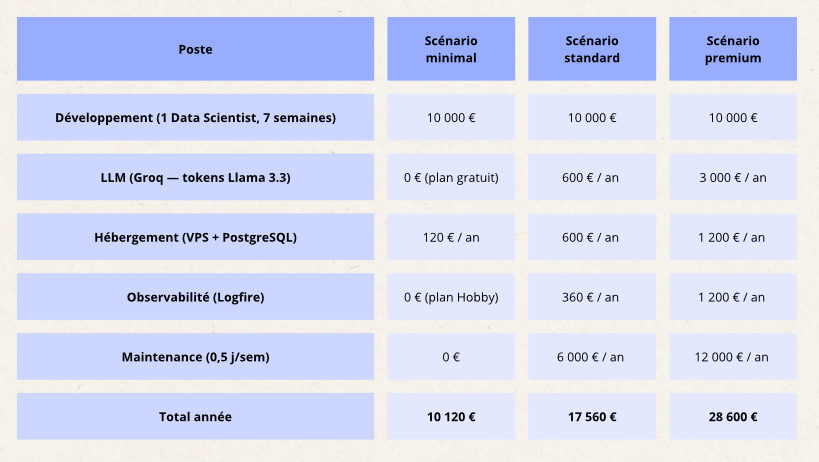
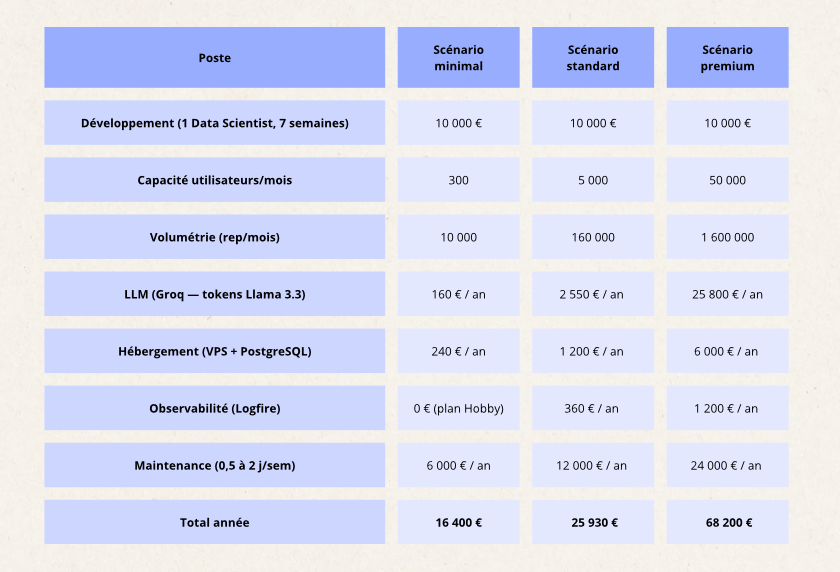
Màj des coûts financiers et de la dimension de la carte interactive

diff --git a/systeme_recommandation.md b/systeme_recommandation.md
@@ -187,13 +187,7 @@ Trois approches ont été envisagées pour répondre au besoin :
 
 ### **Roadmap de mise en œuvre du nouveau prototype - sur la partie ML**
 
-| Phase | Contenu | Livrable | Durée indicative |
-| --- | --- | --- | --- |
-| Phase 1 — Audit | Prise en main prototype, RAGAS v1, diagnostic | Rapport d'audit chiffré | 1 semaine |
-| Phase 2 — Refonte | Nouvelle architecture, migration Groq, base SQL, routeur | Nouveau système fonctionnel | 3 semaines |
-| Phase 3 — Fiabilisation | Validation Pydantic, conteneurisation Docker, API FastAPI | Système robuste et déployable | 1 semaine |
-| Phase 4 — Observabilité | Intégration Logfire, dashboards, suivi des coûts | Monitoring en place | 1 semaine |
-| Phase 5 — Évaluation finale | RAGAS v2, comparaison avant/après, documentation | Rapport de résultats | 1 semaine |
+![alt text](assets/cadrage_poc.png)
 
 **Total estimé** : 7 semaines.
 
@@ -223,18 +217,39 @@ La démarche retenue combine deux approches complémentaires :
 
 ### **Scénarios budgétaires sur la partie ML**
 
-Trois scénarios d'implémentation ont été étudiés, couvrant l'essentiel des coûts sur la première année d'exploitation :
+Trois scénarios d'implémentation ont été étudiés, dimensionnés selon une hypothèse d'usage de **8 questions par session × 4 sessions/utilisateur/mois**, soit ~32 requêtes mensuelles par utilisateur actif.
 
 ![alt text](assets/tableau_cout_financier.png)
 
-- **Scénario minimal** (≈ 10 120 €) : adapté à une phase de démonstration interne ou de preuve de concept. Le système fonctionne en plan gratuit chez Groq et Logfire, l'hébergement se limite à un petit VPS, et aucune maintenance n'est externalisée. Cette option permet de valider la valeur métier avant d'investir davantage, mais expose à des plafonds de tokens et à une absence de support en cas d'incident.
-- **Scénario standard** (≈ 17 560 €) : recommandé pour un passage en production mesuré. Les forfaits payants chez Groq et Logfire garantissent un volume de requêtes confortable et un monitoring complet. Une demi-journée de maintenance hebdomadaire permet de traiter les incidents, d'itérer sur les évaluations RAGAS et d'ajuster les prompts. C'est le meilleur compromis entre coût et qualité de service pour une première mise en production.
-- **Scénario premium** (≈ 28 600 €) : dimensionné pour un usage grand public à forte volumétrie. L'infrastructure cloud renforcée, les quotas LLM étendus et une journée de maintenance hebdomadaire garantissent une disponibilité élevée et une réactivité sur les évolutions. Ce scénario est pertinent si le chatbot devient un produit commercialisé ou intégré à l'application principale de SportSee.
-- **La maintenance** va permettre principalement 4 choses :
-    - Surveillance des performances et détection de dérive
-    - Gestion des incidents et support
-    - Enrichissement du jeu d'évaluation
-    - Ajustement des prompts et du routeur
+#### Scénario minimal (~ 16 400 €/an, capacité ~ 300 utilisateurs/mois)
+Adapté à une **phase pilote** ou à un **club test**. Le système fonctionne 
+sur un VPS modeste avec PostgreSQL embarqué, le plan gratuit Logfire suffit 
+pour la supervision, et les coûts LLM restent dans le plan gratuit Groq pour 
+l'essentiel. Cette option permet de valider la valeur métier avant de scaler.
+
+#### Scénario standard (~ 25 930 €/an, capacité ~ 5 000 utilisateurs/mois)
+Recommandé pour un **déploiement multi-clubs**. L'infrastructure renforcée 
+(VPS 4 vCPU + PostgreSQL managé) supporte une charge confortable, et le 
+forfait Groq payant garantit la disponibilité. Une journée de maintenance 
+hebdomadaire permet de traiter les incidents et d'itérer sur les évaluations 
+RAGAS. C'est le **meilleur compromis coût/qualité** pour une mise en 
+production opérationnelle.
+
+#### Scénario premium (~ 68 200 €/an, capacité ~ 50 000 utilisateurs/mois)
+Dimensionné pour une **plateforme nationale** ou un **produit grand public** 
+intégré à l'application principale de SportSee. L'infrastructure cloud 
+clusterisée, les quotas LLM étendus et une équipe dédiée à 2 jours/semaine 
+garantissent une haute disponibilité. À cette échelle, le coût LLM (~ 25 800 €) 
+devient le poste majoritaire et nécessite un suivi fin du ratio coût/requête.
+
+#### Hypothèses et sources
+
+- **Tarifs Groq** : Llama 3.3 70B Versatile, 0,59 $/M tokens input, 
+  0,79 $/M tokens output (source : groq.com/pricing, avril 2026)
+- **Tokens par requête** : ~2 300 tokens (1 900 input + 400 output)
+- **Conversion** : taux moyen 1 € = 1,07 $
+- **Tarif jour Data Scientist** : 230 €/jour interne (charges comprises)
+- **Hébergement** : grilles tarifaires OVH Cloud / Scaleway 2026
 
 *Les montants sont des ordres de grandeur.*
 

diff --git a/formation_projet.md b/formation_projet.md
@@ -13,7 +13,7 @@ title: Réalisation de ces projets dans la cadre de la formation Data Scientist-
 </div>
 
 ---
-# Projets réalisés lors de ma formation "Data Scientist - Machine Learnin"
+# Projets réalisés lors de ma formation "Data Scientist - Machine Learning"
 
 ## Système de recommandation agricole 
 
